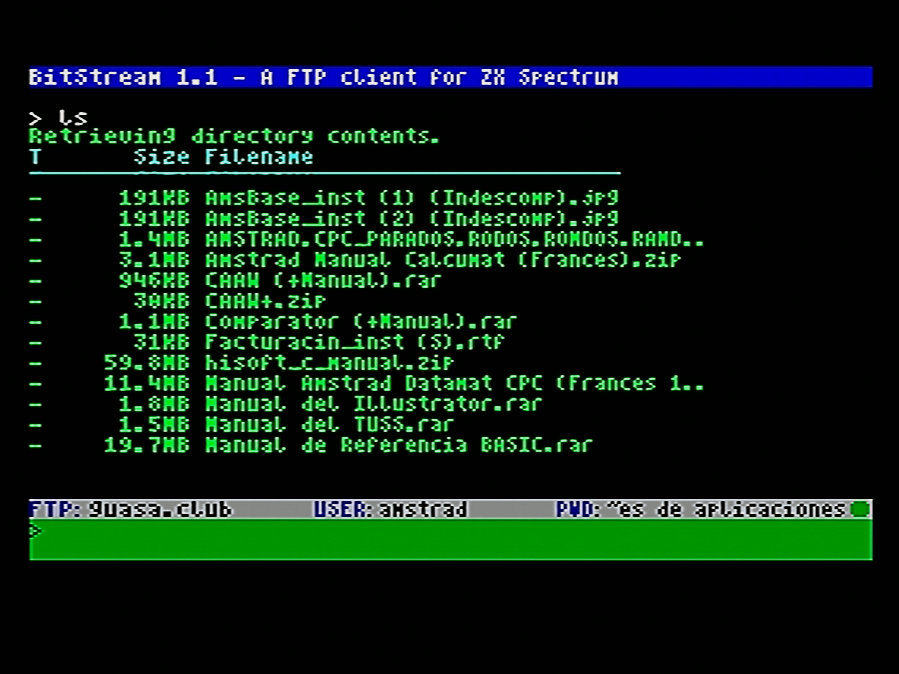
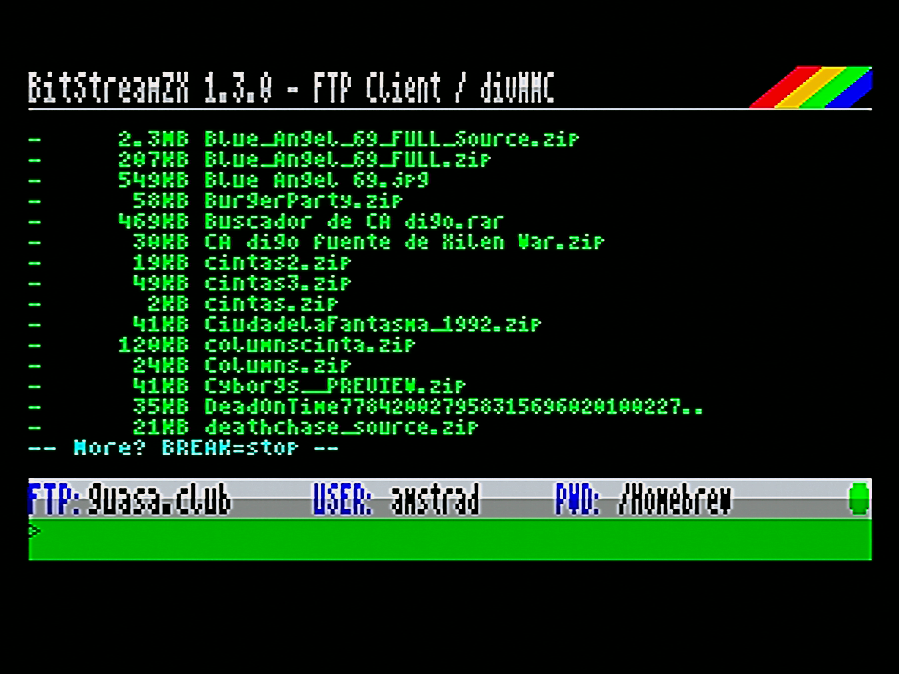
Refresh screenshots and sync 1.3.0 binaries

Changed region(s): [[0.0311, 0.0935, 0.9967, 0.8412]]

diff --git a/src/commands.c b/src/commands.c
@@ -46,7 +46,7 @@ static void cmd_cls(void)
 static void cmd_about(void)
 {
     current_attr = ATTR_RESPONSE;
-    main_print("BitStream " APP_VERSION " - FTP Client / " UART_INTERFACE);
+    main_print(APP_NAME " " APP_VERSION " - FTP Client / " UART_INTERFACE);
     print_char_line(22, '-');
     current_attr = ATTR_LOCAL;
     main_print("(C) 2026 M. Ignacio Monge Garcia");
@@ -248,13 +248,16 @@ static void parse_command(char *line) __z88dk_fastcall
     static char arg1[48];
     static char arg2[32];
     static char arg3[32];
+    char *get_args;
     uint16_t h;
 
     cmd[0] = 0; arg1[0] = 0; arg2[0] = 0; arg3[0] = 0;
+    get_args = NULL;
 
     {
         char *p = line;
         p = read_token(p, cmd, sizeof(cmd));
+        get_args = skip_ws(p);
         p = read_token(p, arg1, sizeof(arg1));
         p = read_token(p, arg2, sizeof(arg2));
         p = read_token(p, arg3, sizeof(arg3));
@@ -380,10 +383,10 @@ static void parse_command(char *line) __z88dk_fastcall
             break;
 
         case H_GE:  // GET
-            if (arg1[0]) {
-                cmd_get(arg1);
+            if (get_args && get_args[0]) {
+                cmd_get(get_args);
             } else {
-                fail("Usage: GET filename");
+                fail("Usage: GET file1 [file2 ...]");
             }
             break;
 

diff --git a/src/main.c b/src/main.c
@@ -15,7 +15,7 @@ static void draw_banner(void)
     clear_line(1, ATTR_BANNER & 0xBF);
 
     // Double-height banner text across rows 0-1
-    print_big_str(0, 0, "BITSTREAM " APP_VERSION " - FTP Client / " UART_INTERFACE);
+    print_big_str(0, 0, APP_NAME_UPPER " " APP_VERSION " - FTP Client / " UART_INTERFACE);
 
     // Dithered badge: 5 cells (cols 27-31), SpectalkZX default theme values
     // Row 0: bridge(blk/blk), blk/red, red/yel, yel/grn, grn/blu
@@ -115,7 +115,7 @@ static void print_intro_banner(void)
 {
     current_attr = PAPER_BLACK | INK_WHITE | BRIGHT;
 
-    main_print("BitStream " APP_VERSION " - FTP Client / " UART_INTERFACE);
+    main_print(APP_NAME " " APP_VERSION " - FTP Client / " UART_INTERFACE);
     main_print("(C) 2026 M. Ignacio Monge Garcia");
 }
 

diff --git a/include/bitstream.h b/include/bitstream.h
@@ -1,5 +1,5 @@
 // ============================================================================
-// bitstream.h - Master header for BitStream FTP Client
+// bitstream.h - Master header for BitStreamZX FTP Client
 // ============================================================================
 #pragma once
 
@@ -11,6 +11,8 @@
 #include <input.h>
 
 // --- VERSION ---
+#define APP_NAME         "BitStreamZX"
+#define APP_NAME_UPPER   "BitStreamZX"
 #define APP_VERSION      "1.3.0"
 
 #ifdef DIVMMC_UART
@@ -108,5 +110,3 @@ extern void     ay_uart_send_block(void *buf, uint16_t len) __z88dk_callee;
 extern uint8_t  ay_uart_read(void);
 extern uint8_t  ay_uart_ready(void);
 extern uint8_t  ay_uart_ready_fast(void);
-
-
